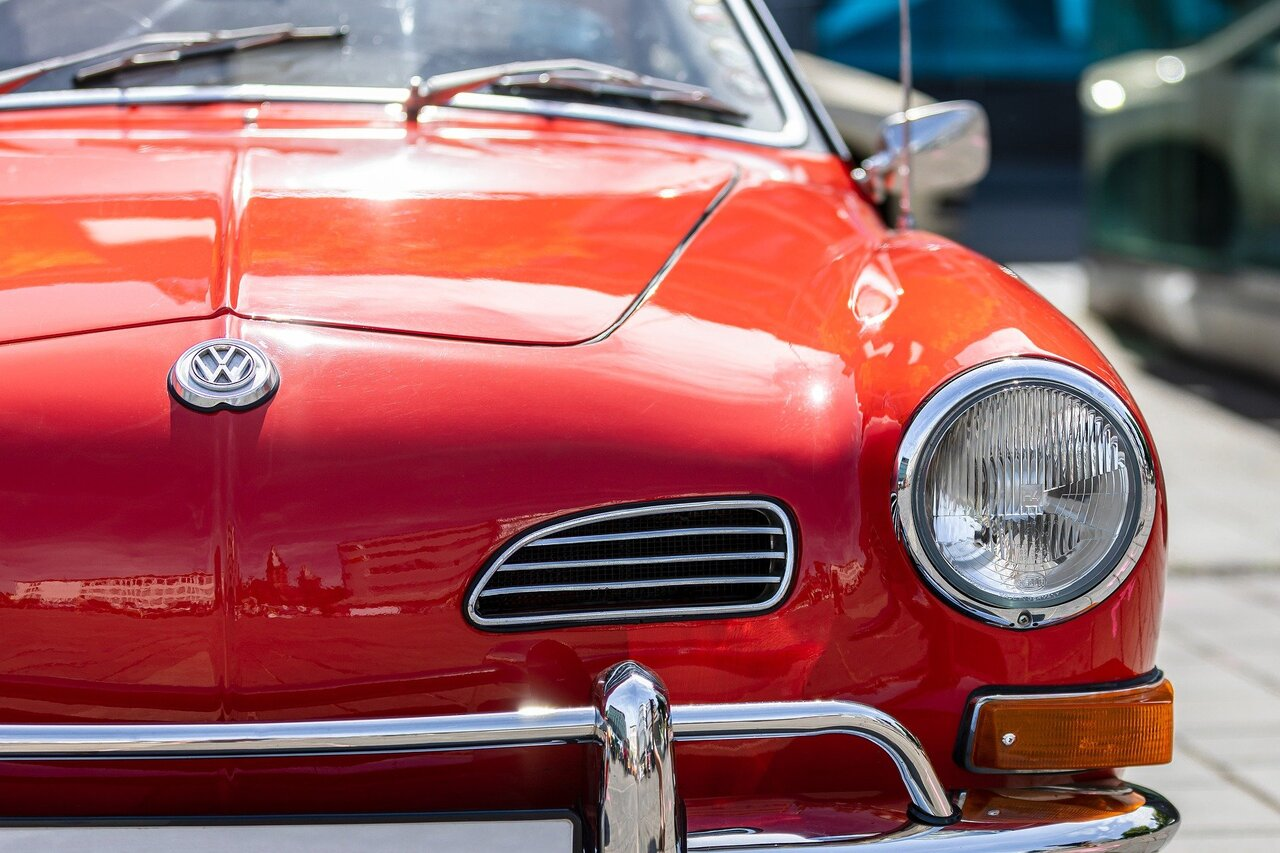
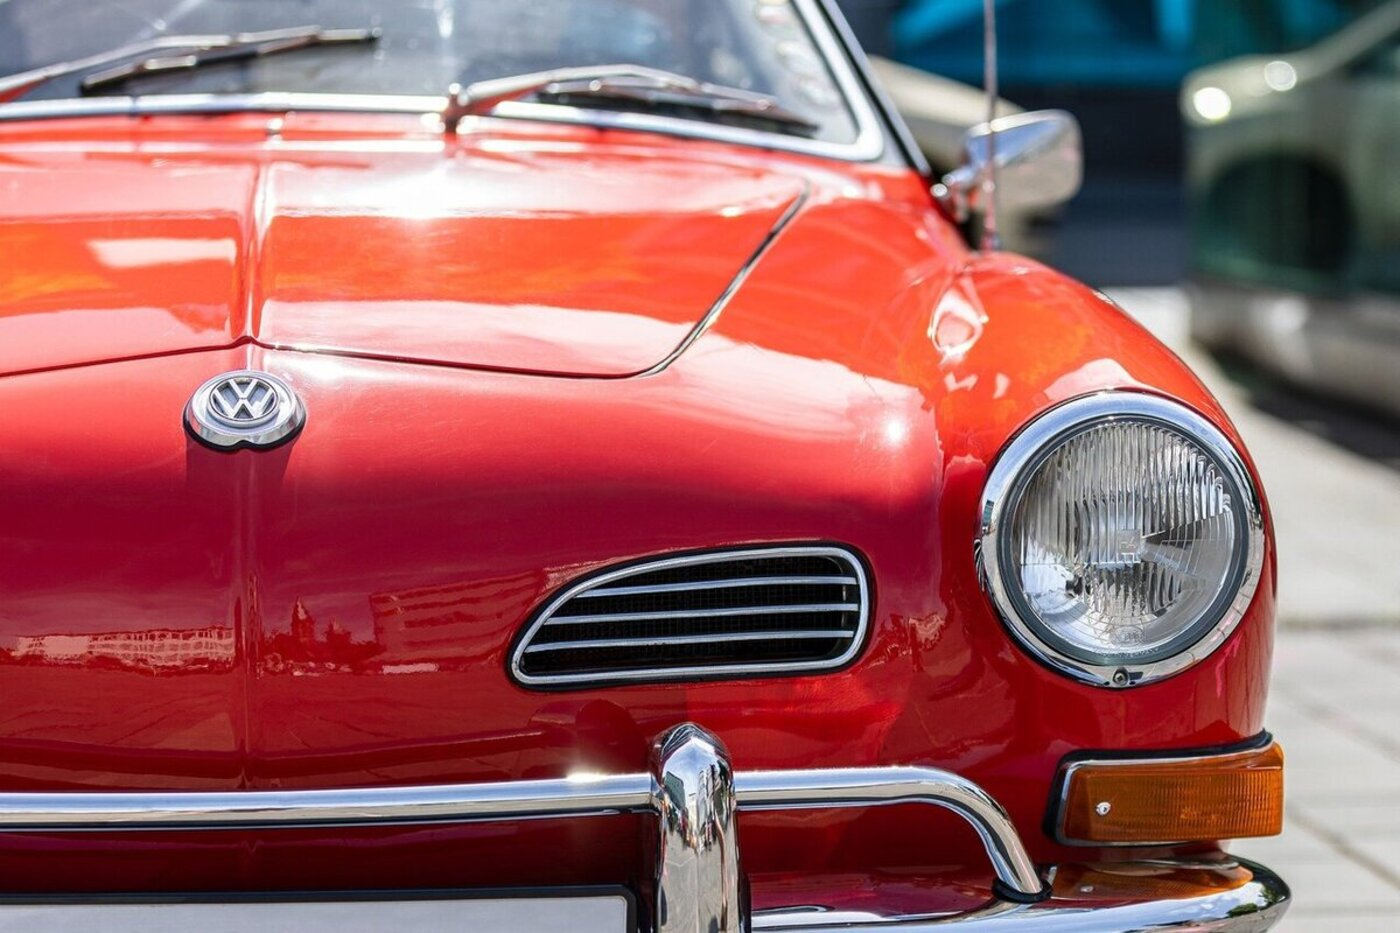
Modifed task 03 rwd

diff --git a/03/index.html b/03/index.html
@@ -6,7 +6,7 @@
     <meta http-equiv="X-UA-Compatible" content="ie=edge">
     <title>devmentor.pl - HTML & CSS: RWD - #03</title>
     <link rel="stylesheet" href="./styles/global.css">
-    <link rel="stylesheet" media="(min-width: 599px) and (max-width:1299px)" href="./styles/mobile.css">
+    <link rel="stylesheet" media="(max-width: 599px) and (max-width:1299px)" href="./styles/mobile.css">
 </head>
 <body>
     <main class="t">Lorem, ipsum dolor sit amet consectetur adipisicing elit. Eaque ea reiciendis omnis perferendis velit error, esse unde itaque sit repellendus. Qui neque quod fuga ducimus laudantium incidunt autem quibusdam fugit!
@@ -24,10 +24,15 @@
                     Lorem, ipsum dolor sit amet consectetur adipisicing elit. Ex recusandae accusamus provident laboriosam error, odio cupiditate itaque ipsum voluptatem earum ratione corporis, est blanditiis beatae dolor aperiam deserunt iure voluptates!
     </main>
     <header class="p">
-        <img class="auto" src="tablet car.jpg" alt="resized car photo">
+        <picture>
+            <source>
+            <img src="desktop car.jpg"    alt="resized for desktop car photo">
+        </picture>  
     </header>
     <section>
-        <side class="v"><iframe width="560" height="315" src="https://www.youtube.com/embed/668nUCeBHyY" title="YouTube video player" frameborder="0" allow="accelerometer; autoplay; clipboard-write; encrypted-media; gyroscope; picture-in-picture" allowfullscreen></iframe></side>
+        <side class="v">
+            <iframe width="560" height="315" src="https://www.youtube.com/embed/668nUCeBHyY" title="YouTube video player" frameborder="0" allow="accelerometer; autoplay; clipboard-write; encrypted-media; gyroscope; picture-in-picture" allowfullscreen></iframe>
+        </side>
     </section>
 </body>
 </html>

diff --git a/03/styles/global.css b/03/styles/global.css
@@ -8,6 +8,7 @@
     border: 3px solid transparent;
     min-height: 50px;
 
+
     display: flex;
     justify-content: center;
     align-items: center;
@@ -34,13 +35,17 @@ body {
     "text-area"
     "video-area"
     ;
+    max-width: 1400px;
 }
 
 .p {
     grid-area: picture-area;
-  
-    
 }
+
+img {
+    max-width: 100%;
+}
+
 
 .t {
     grid-area: text-area;
@@ -49,33 +54,27 @@ body {
 
 .v {
     grid-area: video-area;
+    max-height: 100%;
     
 }
 
 
 
-@media (min-width:599px){
-    body {
-        grid-template-areas: 
-        "picture-area"
-        "text-area"
-        "video-area"
-        ;
-    }
-}
 
 
-@media (min-width:1199px){
+
+
+@media (min-width:600px) and (max-width:1199px) {
     body {
         grid-template-areas: 
         "picture-area text-area"
-        "video-area text-area"
-        ;
+        "video-area text-area";
+        
     }
 }
- 
 
-@media (min-width:1299px){
+
+@media (min-width:1200px){
     body {
         grid-template-areas: 
         "picture-area video-area"
@@ -86,10 +85,11 @@ body {
 
 
 
-section {
+.v {
     height: 0;
     padding-bottom: calc(315 / 560 * 100%);
     position: relative;
+    width: 100%;
 }
 
 iframe {
